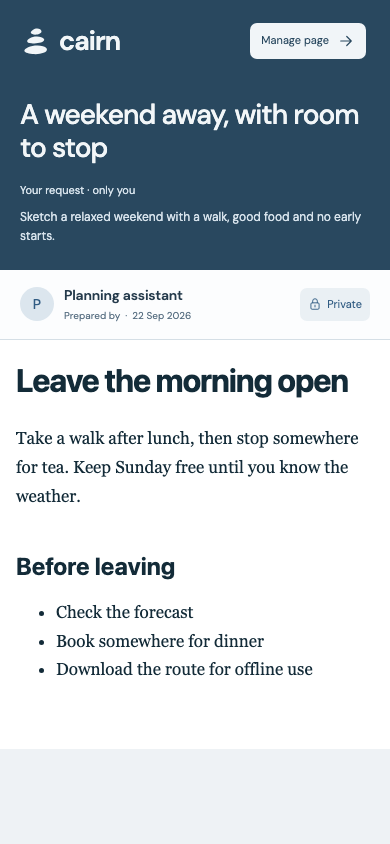
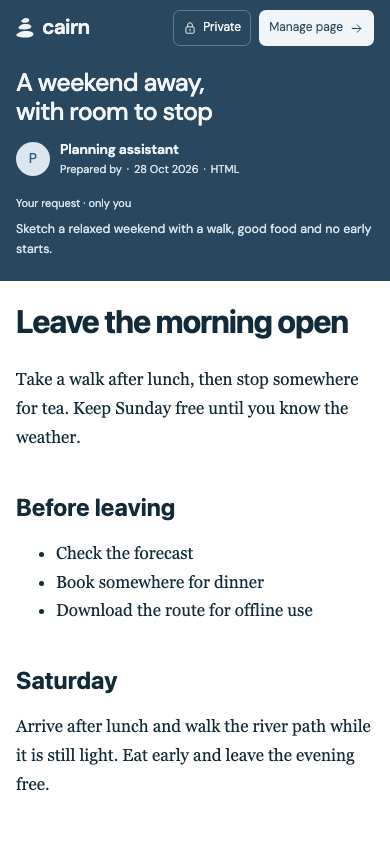
Show themes in the README, fix x/net advisories and prepare v0.2.0 (#20)
* Show themes and the new reader in the README, and prepare v0.2.0

Recapture the README screenshots so the desktop report shows the margin
contents list, and add a phone-width row of the library in each preset
theme. The capture script now sets themes through Settings and uses
reduced motion so the contents list is drawn in full.

Point the quick start and install guide at the v0.2.0 archives and move
the unreleased changelog entries under v0.2.0.

* Update golang.org/x/net to v0.62.0 for two HTML parser advisories

govulncheck now reports GO-2026-6866 and GO-2026-6860 against x/net
v0.58.0, reachable through html.Render in addRuntime and html.Parse in
previewText. Both are fixed in v0.62.0, which also moves x/crypto to
v0.58.0 and x/sys to v0.49.0. Third-party notices are regenerated.

---------

diff --git a/README.md b/README.md
@@ -14,18 +14,30 @@ Cairn gives your agents a place to publish finished work as standalone web pages
 
 Agents can send plain Markdown using Cairn's built-in report, comparison, or visual templates, or push custom HTML when a problem calls for its own layout. If a report includes Mermaid diagrams, interactive ECharts charts, or local images, Cairn serves them straight from the binary without calling out to external CDNs. Custom scripts run inside a strict sandbox so an ambitious page cannot touch the rest of your library.
 
-Reading a long report is comfortable on both a monitor and a phone. Cairn builds a table of contents from your headings, tracks where you are on the page, and includes a few preset themes. Back in the library, you can search across titles and original prompts, filter by which agent wrote the page, archive old work, or write and import pages by hand when no agent is involved.
+Reading a long report is comfortable on both a monitor and a phone. Cairn builds a table of contents from your headings, sets it in the margin beside the text when the screen is wide enough, and tracks where you are on the page. Back in the library, you can search across titles and original prompts, filter by which agent wrote the page, archive old work, or write and import pages by hand when no agent is involved.
 
 The whole thing is one Go binary backed by SQLite and a directory on disk. It does not need Docker, Node, an external database, or an AI subscription of its own. Drop it on a Raspberry Pi or a small Linux server and forget about it.
 
 <table>
 <tr>
-<td width="76%" valign="top"><img src="docs/images/report.png" alt="Cairn desktop report with a workspace comparison table and a budget chart"></td>
+<td width="76%" valign="top"><img src="docs/images/report.png" alt="Cairn desktop report with a contents list in the left margin and a budget table"></td>
 <td width="24%" valign="top"><img src="docs/images/mobile.png" alt="Cairn phone reader showing a weekend plan and its original request"></td>
 </tr>
 </table>
 
-The screenshots above come from a temporary demo library. You can [recreate them locally](CONTRIBUTING.md#readme-screenshots) if you want to poke around the sample pages.
+## Themes
+
+Cairn has three presets: Cairn, Minimal and Futuristic. Choose them under **Settings → Appearance**, separately for the admin view, the reader you use privately, and the reader visitors see on shared links, or apply one preset everywhere. A theme changes Cairn's own pages and the bar around each report. The report keeps the design its agent gave it.
+
+<table>
+<tr>
+<td width="33%" valign="top"><img src="docs/images/theme-cairn.png" alt="Cairn library on a phone in the Cairn theme, with soft blue-grey surfaces and rounded controls"><br><sub>Cairn: blue covers, soft edges and the familiar Cairn type.</sub></td>
+<td width="33%" valign="top"><img src="docs/images/theme-minimal.png" alt="Cairn library on a phone in the Minimal theme, with white surfaces and black controls"><br><sub>Minimal: white space, compact covers and plain black controls.</sub></td>
+<td width="33%" valign="top"><img src="docs/images/theme-futuristic.png" alt="Cairn library on a phone in the Futuristic theme, with dark purple-grey surfaces and violet buttons"><br><sub>Futuristic: dark Tokyo Night greys, violet accents and angular controls.</sub></td>
+</tr>
+</table>
+
+Every screenshot here comes from a temporary demo library. You can [recreate them locally](CONTRIBUTING.md#readme-screenshots) if you want to poke around the sample pages.
 
 ## Quick start
 
@@ -36,8 +48,8 @@ On ARM64, with both files in the current directory:
 ```sh
 sha256sum --ignore-missing --check checksums.txt
 # Check that your archive reports OK before continuing.
-tar -xzf cairn_v0.1.0_linux_arm64.tar.gz
-cd cairn_v0.1.0_linux_arm64
+tar -xzf cairn_v0.2.0_linux_arm64.tar.gz
+cd cairn_v0.2.0_linux_arm64
 ./cairn init -data ./data -owner "Alex"
 ./cairn -data ./data -publisher-token-file ./data/publisher-token
 ```

diff --git a/CHANGELOG.md b/CHANGELOG.md
@@ -1,12 +1,13 @@
 # Changelog
 
-## Unreleased
+## v0.2.0
 
 - Saved preset themes (Cairn, Minimal, Futuristic) for the admin view, private reader and public reader.
 - One page scroll in the reader at every width: a shorter cover band, a pinned bar with the title, current section and page actions, and a page-details sheet with the byline and full request.
 - Nested contents list from report headings, set in the report's left margin beside its text when there is room and opened from the bar otherwise, with current-section tracking and `#section` deep links.
 - Headings without ids get stable GitHub-style ids when served, so Markdown section links work.
 - Bundles Mermaid 12.2.0, which ships DOMPurify 3.4.17 and KaTeX 0.18.10 and clears the critical advisories npm reported against Mermaid 11.17.2.
+- Updates golang.org/x/net to v0.62.0, which fixes two HTML parser advisories (GO-2026-6866, GO-2026-6860) in code paths Cairn uses, along with golang.org/x/crypto v0.58.0 and golang.org/x/sys v0.49.0.
 - Builds with Go 1.26.10, which fixes standard-library vulnerabilities in `html/template`, `net/http` and `crypto/x509` reported by govulncheck.
 - Fixed in-report section links that did nothing on phones, and runaway frame heights for HTML reports without a doctype.
 

diff --git a/CONTRIBUTING.md b/CONTRIBUTING.md
@@ -38,4 +38,4 @@ After building `cairn` and installing the browser-check dependencies above, run:
 node scripts/capture-demo.cjs
 ```
 
-The script starts Cairn on localhost with a temporary library, publishes fictional example reports, and captures the library and desktop/mobile readers using headless Chromium. It writes the images to `docs/images/`, closes the browser and server, then removes the demo data. It does not use your running Cairn instance or personal reports.
+The script starts Cairn on localhost with a temporary library, publishes fictional example reports, and captures the library, the desktop and mobile readers, and the library in each theme using headless Chromium. It writes the images to `docs/images/`, closes the browser and server, then removes the demo data. It does not use your running Cairn instance or personal reports.

diff --git a/THIRD_PARTY_NOTICES.md b/THIRD_PARTY_NOTICES.md
@@ -204,7 +204,7 @@ OUT OF OR IN CONNECTION WITH THE SOFTWARE OR THE USE OR OTHER DEALINGS IN THE
 SOFTWARE.
 ```
 
-## golang.org/x/crypto v0.56.0
+## golang.org/x/crypto v0.58.0
 
 ### LICENSE
 
@@ -238,7 +238,7 @@ THEORY OF LIABILITY, WHETHER IN CONTRACT, STRICT LIABILITY, OR TORT
 OF THIS SOFTWARE, EVEN IF ADVISED OF THE POSSIBILITY OF SUCH DAMAGE.
 ```
 
-## golang.org/x/net v0.58.0
+## golang.org/x/net v0.62.0
 
 ### LICENSE
 
@@ -272,7 +272,7 @@ THEORY OF LIABILITY, WHETHER IN CONTRACT, STRICT LIABILITY, OR TORT
 OF THIS SOFTWARE, EVEN IF ADVISED OF THE POSSIBILITY OF SUCH DAMAGE.
 ```
 
-## golang.org/x/sys v0.47.0
+## golang.org/x/sys v0.49.0
 
 ### LICENSE
 

diff --git a/docs/install.md b/docs/install.md
@@ -8,8 +8,8 @@ Download the archive for your architecture and `checksums.txt` from [Releases](h
 
 ```sh
 sha256sum --ignore-missing --check checksums.txt
-tar -xzf cairn_v0.1.0_linux_arm64.tar.gz
-cd cairn_v0.1.0_linux_arm64
+tar -xzf cairn_v0.2.0_linux_arm64.tar.gz
+cd cairn_v0.2.0_linux_arm64
 ./cairn version
 ./cairn init -data ./data -owner "Alex"
 ./cairn -data ./data -publisher-token-file ./data/publisher-token
